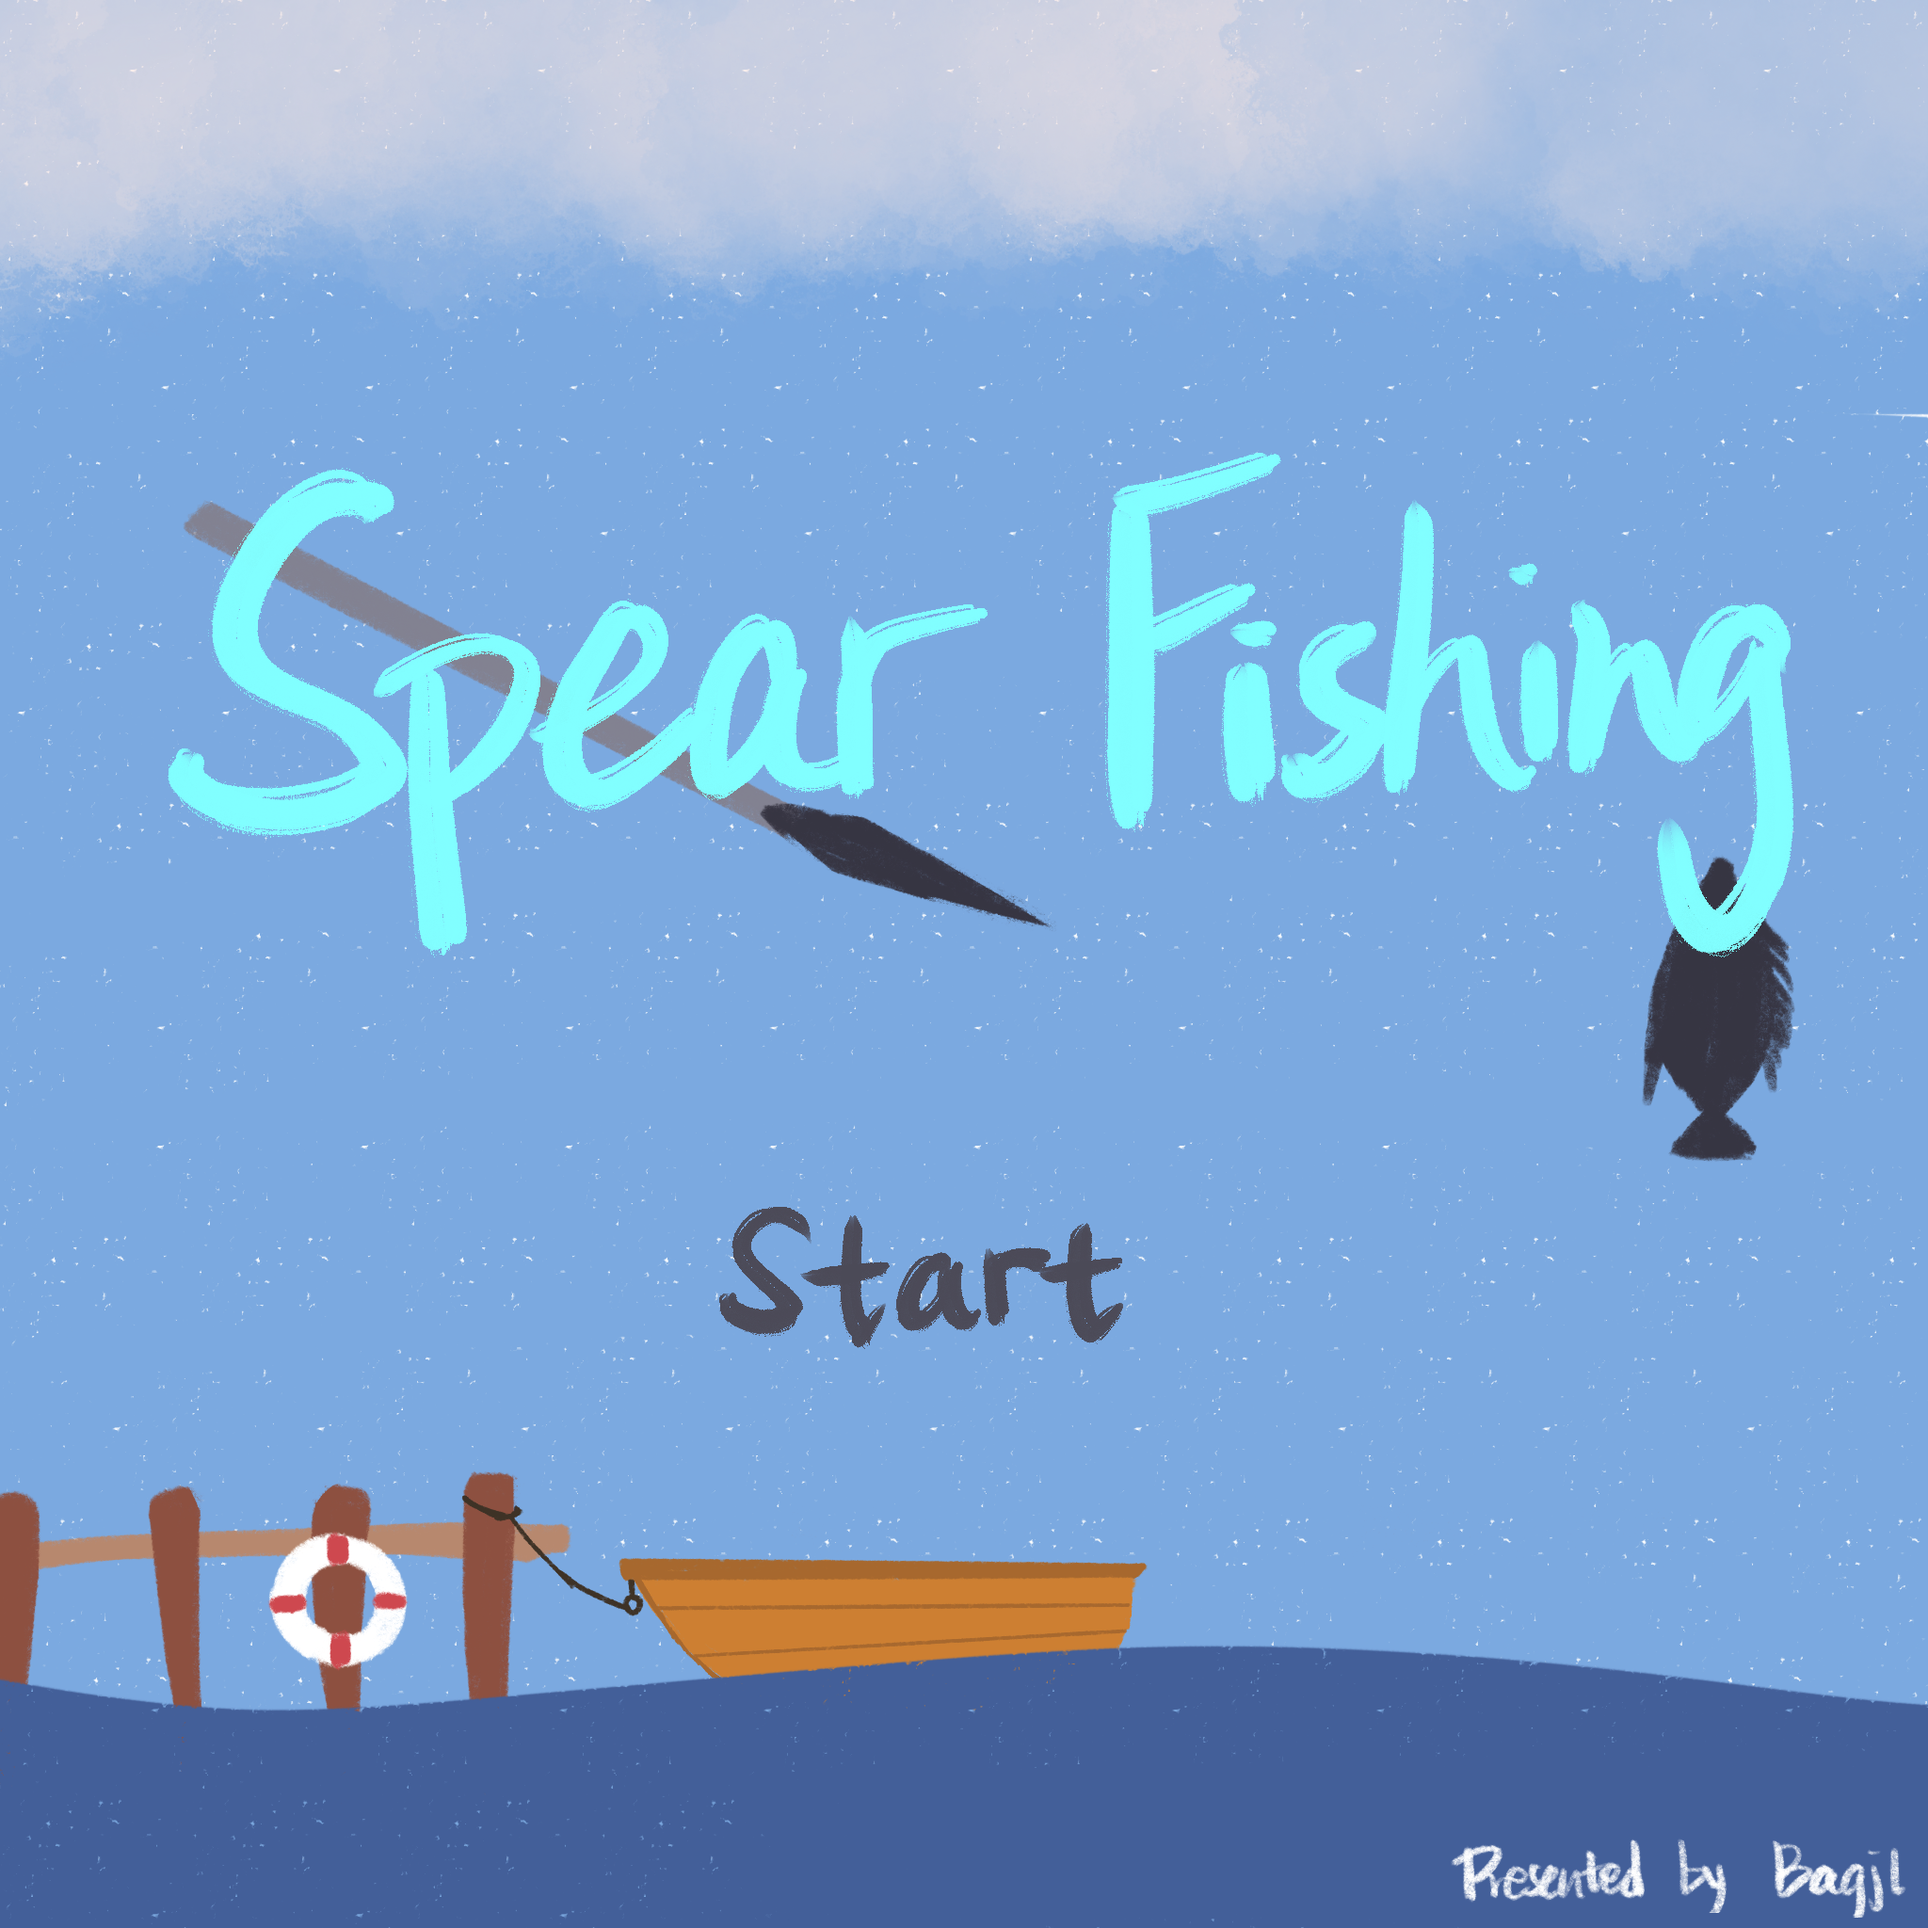
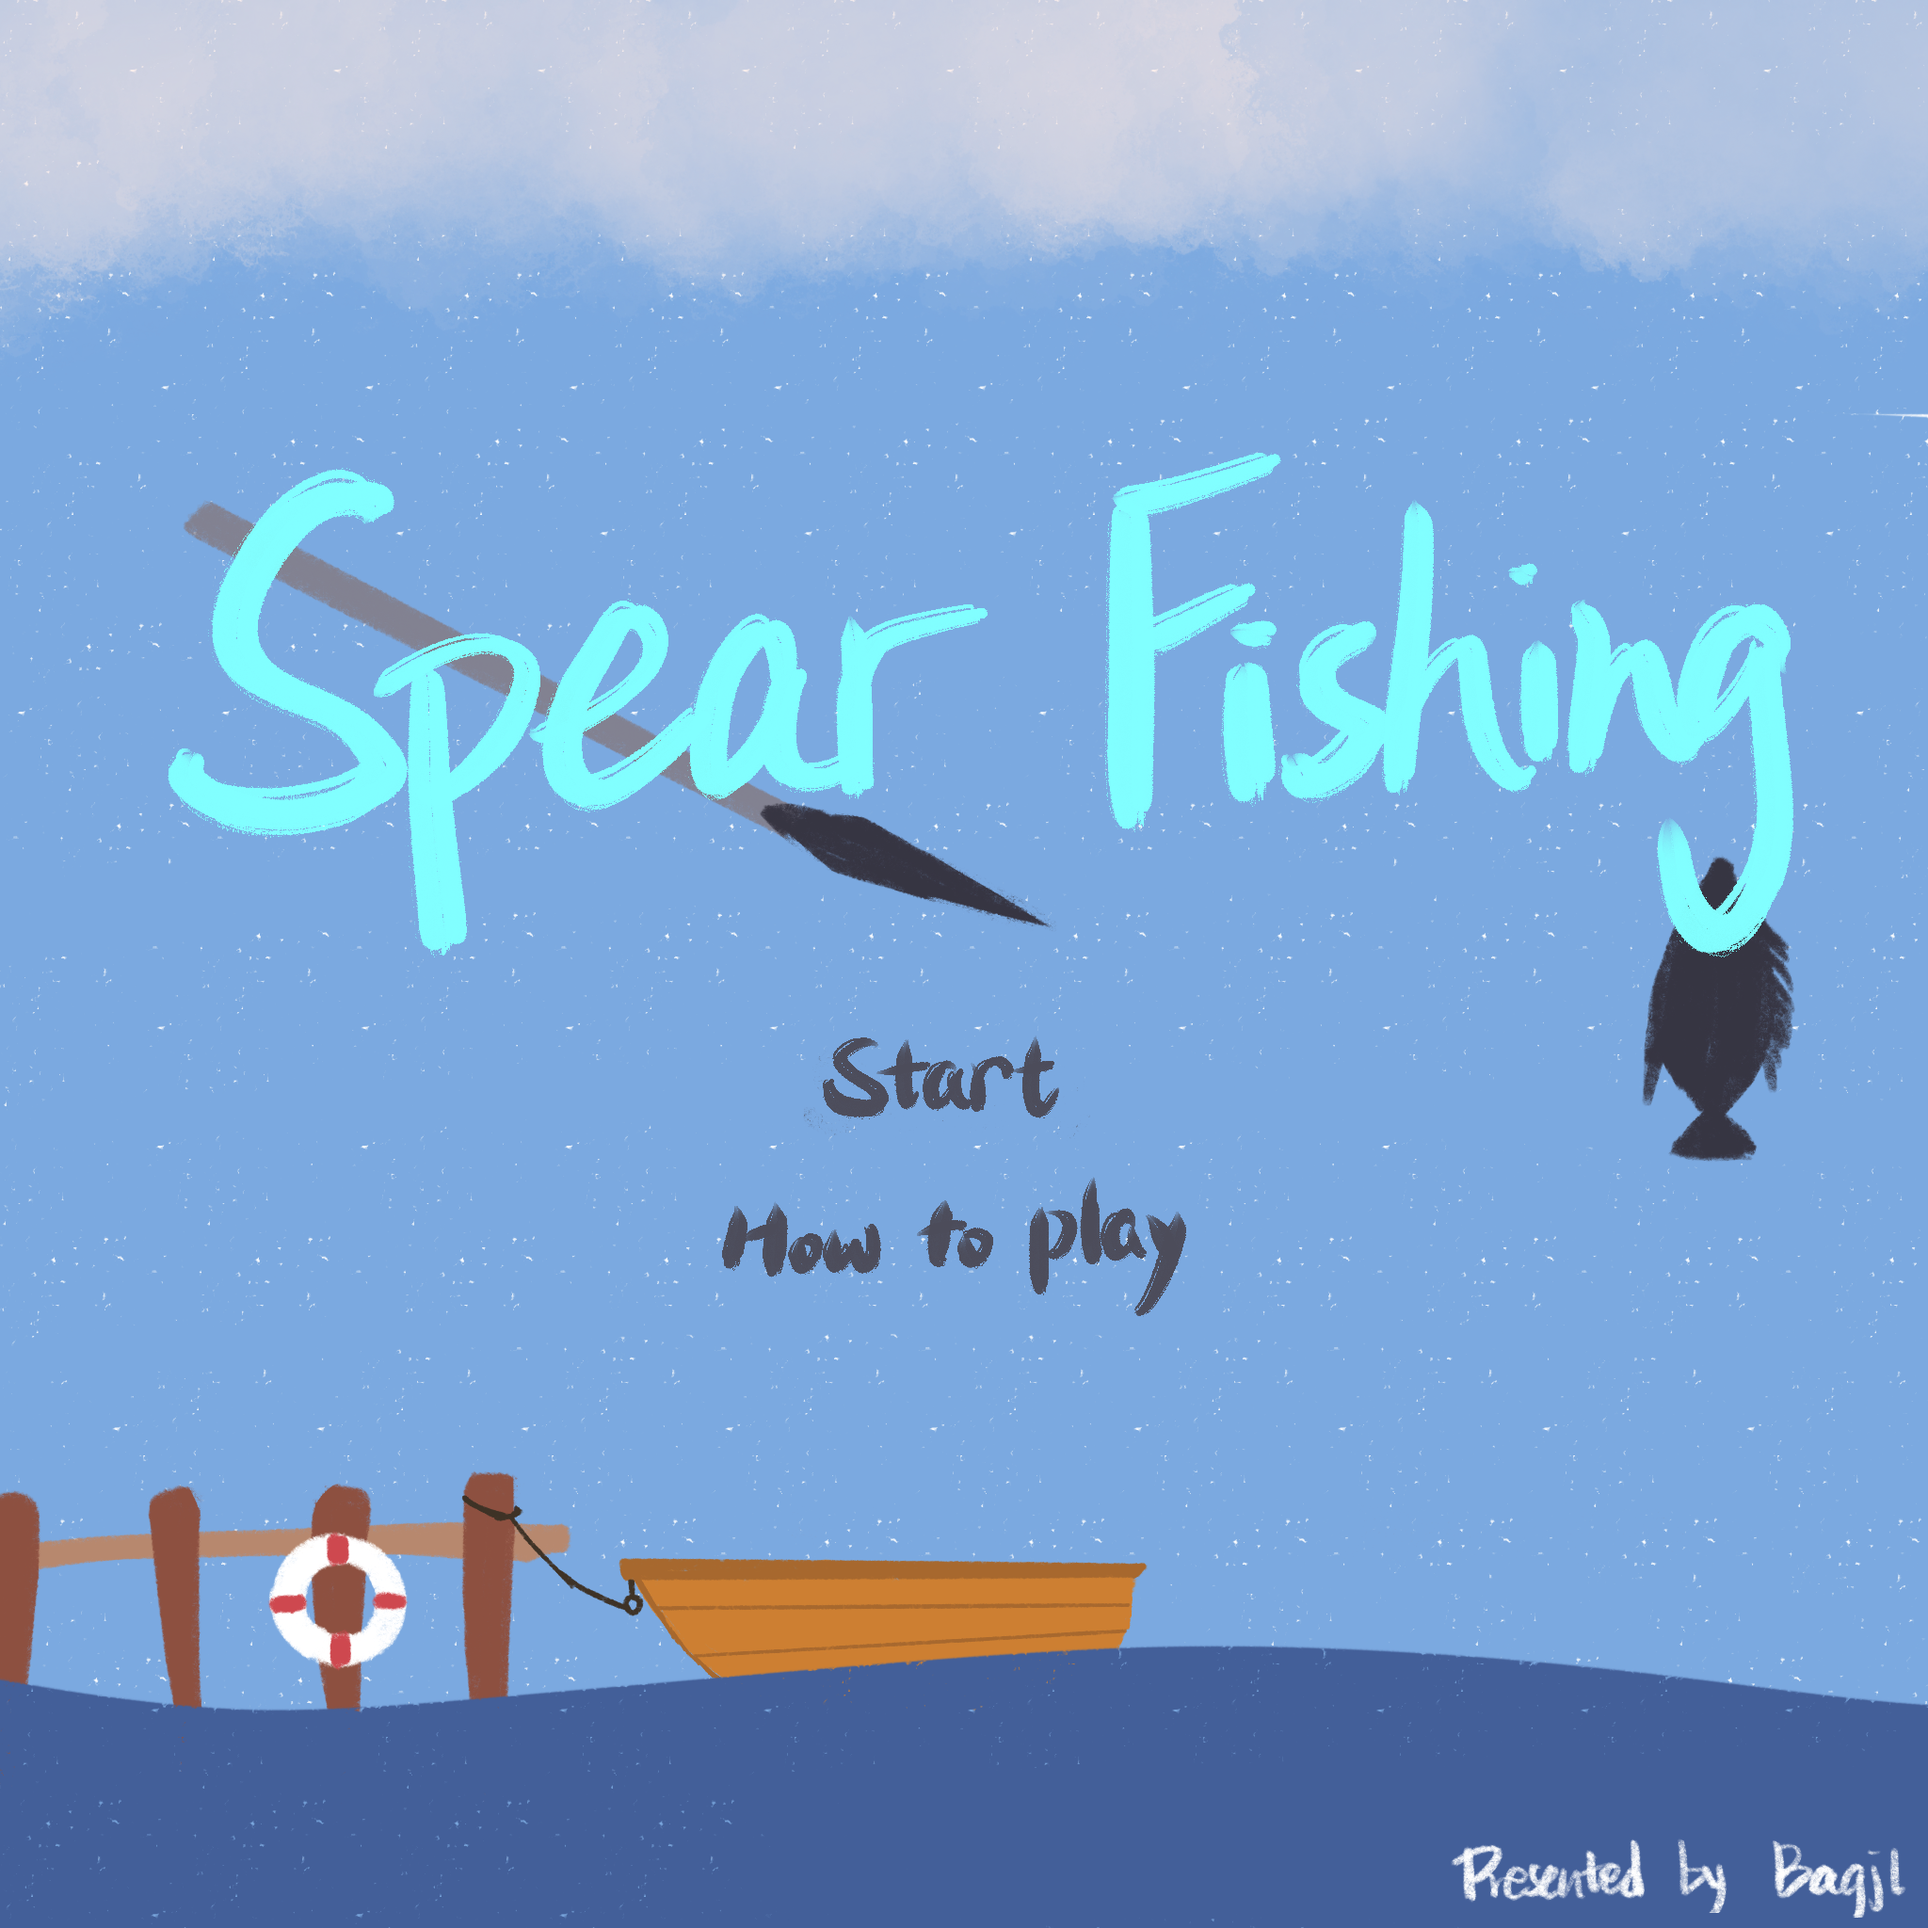
11.4: added How to play page and information. Added buttons to go back to start menu. updated background image for start menu.

Changed region(s): [[0.375, 0.625, 0.625, 0.7188], [0.4062, 0.5312, 0.5625, 0.5938]]

diff --git a/A8/view.cpp b/A8/view.cpp
@@ -94,8 +94,9 @@ View::View(Model &model,  QWidget *parent)
     mainBackPix.load(":/Background_StartMenu.png");
     ui->mainMenuLabel->setPixmap(mainBackPix.scaled(800,580));
 
-    //set startbutton to transparent
+    //set start menut buttons to transparent
     ui->startGameButton->setStyleSheet("QPushButton { background-color: transparent; border: 0px; color: transparent}");
+    ui->howToPlayButton->setStyleSheet("QPushButton { background-color: transparent; border: 0px; color: transparent}");
 
     // Set journal images
     QPixmap journalBackPix;
@@ -886,7 +887,7 @@ void View::updateNextLevelProgress(int progress, QChar waterType){
         }
         ui->closeCongratsButton->setEnabled(true);
 
-        //TODO unlock the next level here
+        // unlocks the next level here
         if(waterType == 'p'){
 
             ui->smoothWaterButton->setEnabled(true);
@@ -979,5 +980,20 @@ void View::closeEvent(QCloseEvent *event){
 }
 
 void View::on_startGameButton_clicked(){
+    // goes to the places to fish page
     ui->stackedWidget->setCurrentIndex(startPage);
 }
+
+void View::on_howToPlayButton_clicked()
+{
+    //goes to the how to play page
+    ui->stackedWidget->setCurrentIndex(helpMenuPage);
+}
+
+
+void View::on_goToMainMenuPageButton_clicked()
+{
+    //goes to the main menu page
+    ui->stackedWidget->setCurrentIndex(startMenuPage);
+}
+

diff --git a/A8/view.h b/A8/view.h
@@ -115,6 +115,10 @@ private slots:
     //start game button
     void on_startGameButton_clicked();
 
+    void on_howToPlayButton_clicked();
+
+    void on_goToMainMenuPageButton_clicked();
+
 private:
     Ui::View *ui;
     QTimer * time;
@@ -125,6 +129,7 @@ private:
     int const quizPage = 3;
     int const journalPage = 4;
     int const startMenuPage = 5;
+    int const helpMenuPage = 6;
     void setUpAnswers(QString answer, QString randAnswer1, QString randAnswer2);
     void displayJournalLabels(QString info, QString fishPic, int fishNum);
     int journalPageNum = 0;
